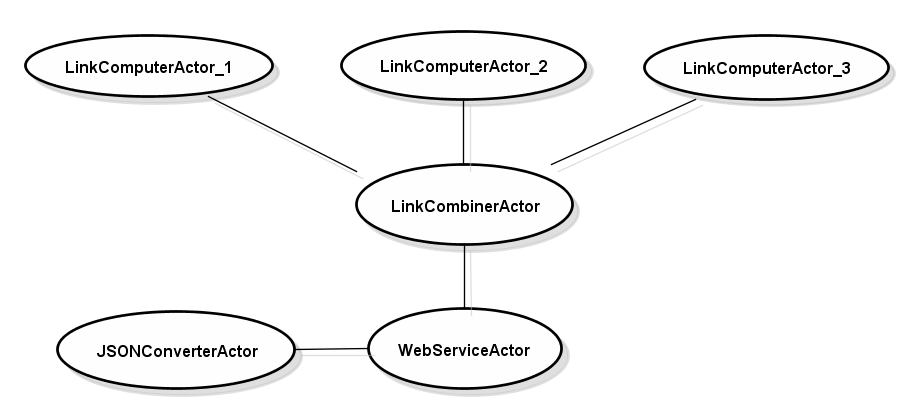
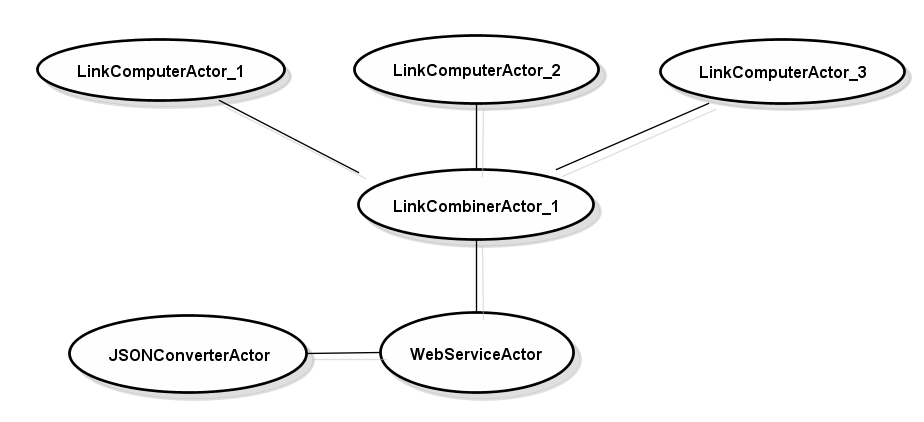
Final modifications to the report
Mainly changed the part under distribution. Also updated the images.

diff --git a/doc/github-relations-viz.tex b/doc/github-relations-viz.tex
@@ -327,7 +327,7 @@ val linkMap =
 \end{lstlisting}
 
 \section{Distributed data-processing with Akka}\label{sec:distributed}
-Even tough the computation of the project links has been optimised,  a lot of data needs to be processed; Our dataset consists of 14 million commits. Because of this a request on a set of project links for a given time-interval and weight could take around 2 minutes for the entire dataset. This might be enough to compute a single graph, but for interactive use this is not acceptable. Therefore we decided to distribute the computation by using actors. Because the system was built in Scala, the most logical choice for this is using the Akka toolkit, which is the most commonly used available actor toolkit for Scala.
+Even tough the computation of the project links has been optimised,  a lot of data needs to be processed; Our dataset consists of 14 million commits. Because of this a request on a set of project links for a given time-interval and weight could take around 2 minutes for the entire dataset. This might be enough to compute a single graph, but for interactive use this is not acceptable. Therefore we decided to distribute the computation by using actors. Because the system was built in Scala, the most logical choice for this is using the Akka toolkit, which is the most commonly used actor toolkit for Scala.
 
 \subsection{Akka}
 
@@ -337,7 +337,7 @@ When using multiple actors, computations will be done asynchronous. One way to d
 
 A future can also be piped to an actor, meaning that when the result becomes available, all operations over the future will be executed, and the result will be sent as message to the actor the future was piped to. This way an entire computation chain can be composed which will automatically completed when the results become available.
 
-What Akka actually does behind the scenes for each future is to creating a new actor, which reacts on the "reply message". When the reply message is sent the operations that were mapped over the future are executed, and the result is send to the actor the future was piped to. This can also be seen in figure \ref{fig:actor_seq}, which will be explained later.
+What Akka actually does behind the scenes for each future obtained by an ask request is creating a new actor, which reacts on the "reply message". When the reply message is sent the operations that were mapped over the future are executed, and the result is send to the actor the future was piped to. This can also be seen in figure \ref{fig:actor_seq}, which will be explained later.
 
 \subsection{Distribution}
 
@@ -345,12 +345,9 @@ In order to reduce the total computation time by distributing the data over mult
 
 Therefore we came up with the following solution. We initially give each actor system access to the entire dataset. Then, when an computation-actor is created, it receives a set of users for whose commits it is responsible. We distribute the commits in a round robin fashion over the actors based on userid. With a set of users the actor can compute the entire process towards the project links, except for the filtering on the weight of the link. For that last operation an actor needs to be sure that it has all links between a project in order to produce a correct result. This is done at the highest level of the computation hierarchy when all links are available.
 
-The startup of the system does not receive any speedup, because still all project links need to read into memory. After that the computation of further requests will be in parallel. Once the actors respond to the request, they send all the project links they computed to the actor that sent the request (using the "Ask" pattern). The actor that requested the project links receives them and a reduction is done, after which the filter operation over the weight can be done.
+The computation-actors described above will send the project-links to the actor that sent the request (using the "Ask" pattern). This actor (the link-combiner-actor) receives them in a future, over which a reduction is mapped. The result of the future is piped to the actor that requested the links to the link-combiner-actor. This completes the computation chain.
 
-
-As can be seen in the figure, two more actors were also added in this figure. These are actors that handle communication with the user. The "WebserviceActor" is an actor that receives requests from the user, then creates a future for the link-results which are requested from the LinkCombinerActor, and pipes the result to the JSONConverterActor. When the JSONConverterActor receives a list of project links, it will convert them to a JSON format for D3, and send the JSON code to the user. The entire communication flow when a LinkRequest is done is shown in figure \ref{fig:actor_seq}
-
-The result is the simple system below
+To get the entire system working, two more actors are added. First is the webservice-actor which function is to handle requests from the user. For each request from the user, it "Asks" the link-combiner-actor for the project-links, and pipes the result to the JSON-converter-actor. The JSON-converter-actor is responsible for converting the list of  project links into a JSON format that can be parsed by the visualisation tool. Upon receiving a list of project-links the JSON-converter-actor converts the list into a JSON format and sends the result to the user. The resulting system is shown schematically in figure \ref{fig:actor_sample}. The communication between the actors and futures is shown a sequence diagram in figure \ref{actor_seq}.
 
 \begin{figure}[htb]
     \centering
@@ -361,31 +358,27 @@ The result is the simple system below
 
 \begin{figure}[htb]
     \centering
-    \includegraphics[width=1.0\textwidth]{RequestLinks}
+    \includegraphics[width=1.0\textwidth]{ActorSequence}
     \caption{A sequence diagram for a project link request}
     \label{fig:actor_seq}
 \end{figure}
 
-\todo{webservice request ook "asynchroon" in de diagram zetten, dat is ie namelijk wel}
 
-\todo{Naam consequent doen, met of zonder actor in de naam. Met is beter denk ik}
+When looking at figure \ref{fig:actor_seq} it is very nice to see the "WebserviceActor" and the "LinkCombinerActor" only just initiate the process. As described above the result of a request is stored in a future, and the result is piped to a new actor. This means after they receive the request both the "WebserviceActor" and the "LinkCombinerActors" are not involved in the process any more. The communication flows through the Future's they initiated.
 
-When looking at figure \ref{fig:actor_seq} it is very nice to see the "WebserviceActor" and the "LinkCombinerActor" only just initiate the process. As described above the result of a request is stored in a future, and the result is piped to a new actor. This means after they receive the request both the "WebserviceActor" and the "LinkCombinerActors" are not involved in the process any more. The communication flows through the Future's they intiated.
-
-\todo{beter uitleggen dat het proces event-driven is en niet blockt.}
 
 \subsection{Scalability}
 
 A big advantage of the design of the actor system is the scalability. Off course more LinkComputerActors can be used by the single combiner actor in figure \ref{fig:actor_sample}, but that would mean a lot of project links to be send to the same actor, resulting a lot of data flow at a single actor. 
 
-As can be seen in the sequence diagram, both the "LinkCombineActor" and the "LinkComputerActor" can receive a project-link request. Because the actors are completely independent, they do not need to know how the project links are obtained. Therefore both actors can be substituted for each other, as shown in figure \ref{fig:example_scalable}. This way a tree can be constructed with link combiners and link computers, and each link computer will reduce the project-links of the next level in the tree. This way the system can be scaled into any desired size.
+As can be seen in the sequence diagram, both the "LinkCombineActor" and the "LinkComputerActor" can receive a project-link request. Because the actors are completely independent, they do not need to know how the project links are obtained. Therefore both actors can be substituted for each other, as shown in figure \ref{fig:example_scalable}. By doing so a tree can be constructed with link combiners and link computers, and each link computer will reduce the project-links of the next level in the tree. This way the system can be scaled into any desired size.
 
 We have not tested the speedup of the system by using the distributed actor system at this moment. We expect a positive effect on the responsiveness of the system, but have no data yet to support this.
 
 \begin{figure}[htb]
     \centering
     \includegraphics[width=1.00\textwidth]{ActorSystemSampleExtended}
-    \caption{Example of extended actor system}
+    \caption{Example of an extended actor system}
     \label{fig:example_scalable}
 \end{figure}
 
@@ -412,8 +405,6 @@ The "Data Drive Documents" (aka D3\footnote{\url{http://d3js.org}}) JavaScript l
 
 \section{Conclusions and suggestions}\label{sec:conclusions}
 
-\subsection{Conclusions}
-
 We successfully implement an interactive system to explore the project relations in our GitHub data set.
 
 We implemented the Sawzall aggregator model as described by L\"ammel in Scala. Our implementation is more liberal then the presented one because of the use of aggregators instead of Monoids on every level of nested types. The resulting library and the integration with the Scala collections allow us to specify data processing in a very clean and elegant way.
@@ -421,8 +412,6 @@ We implemented the Sawzall aggregator model as described by L\"ammel in Scala. O
 By using Akka the computation can be distributed over multiple actor systems running on different machines. The distributed system is also scalable, ensuring that when the data size increases the system can be scaled along. We expect the distribution will have a positive effect on the responsiveness of the system, so that users can interactively query the data with different parameters without having to wait too long for the result.
 
 With D3 as graphical library and the force directed graph, projects can be clustered together based on their links, giving a clear overview of the relation between the projects. D3 also allows easy navigation and zooming over large graphs.
-
-\subsection{Suggestions}
 
 Based on our experience we offer the following suggestions for future research and development:
 
